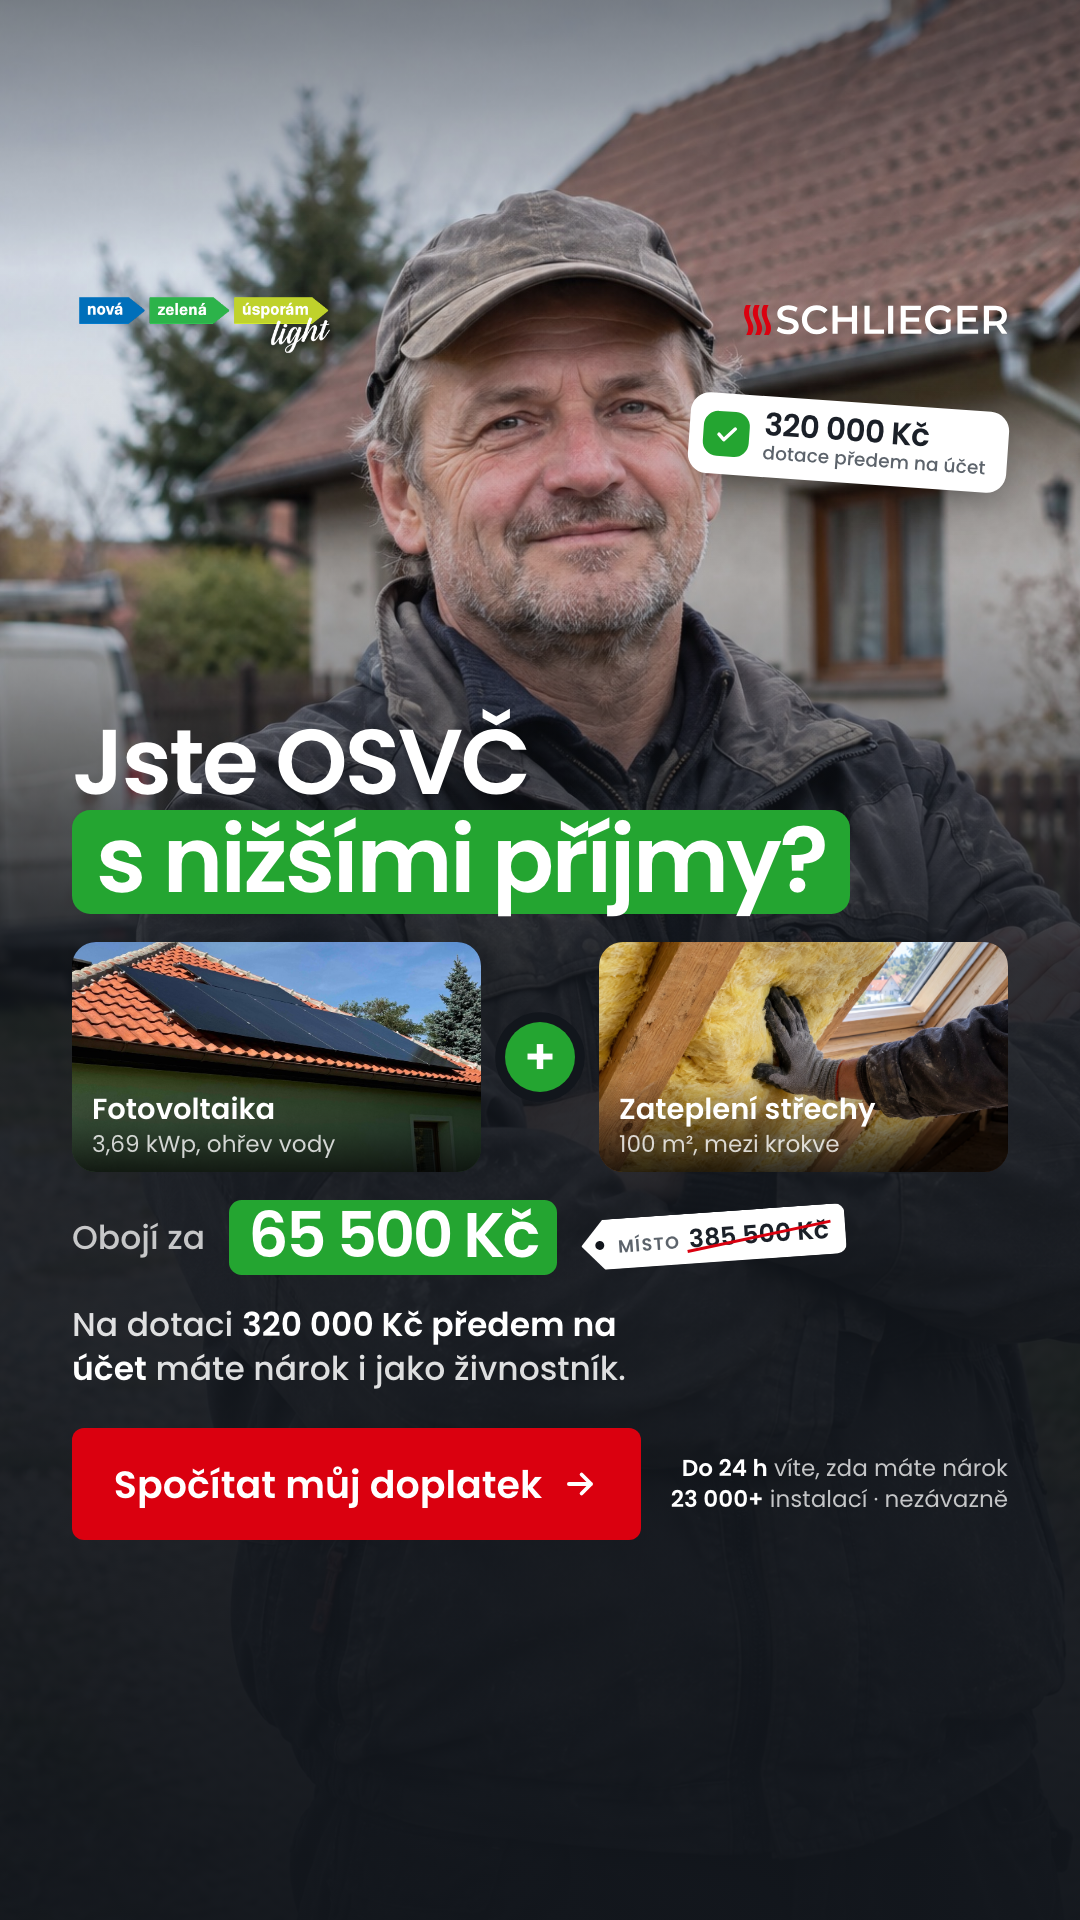
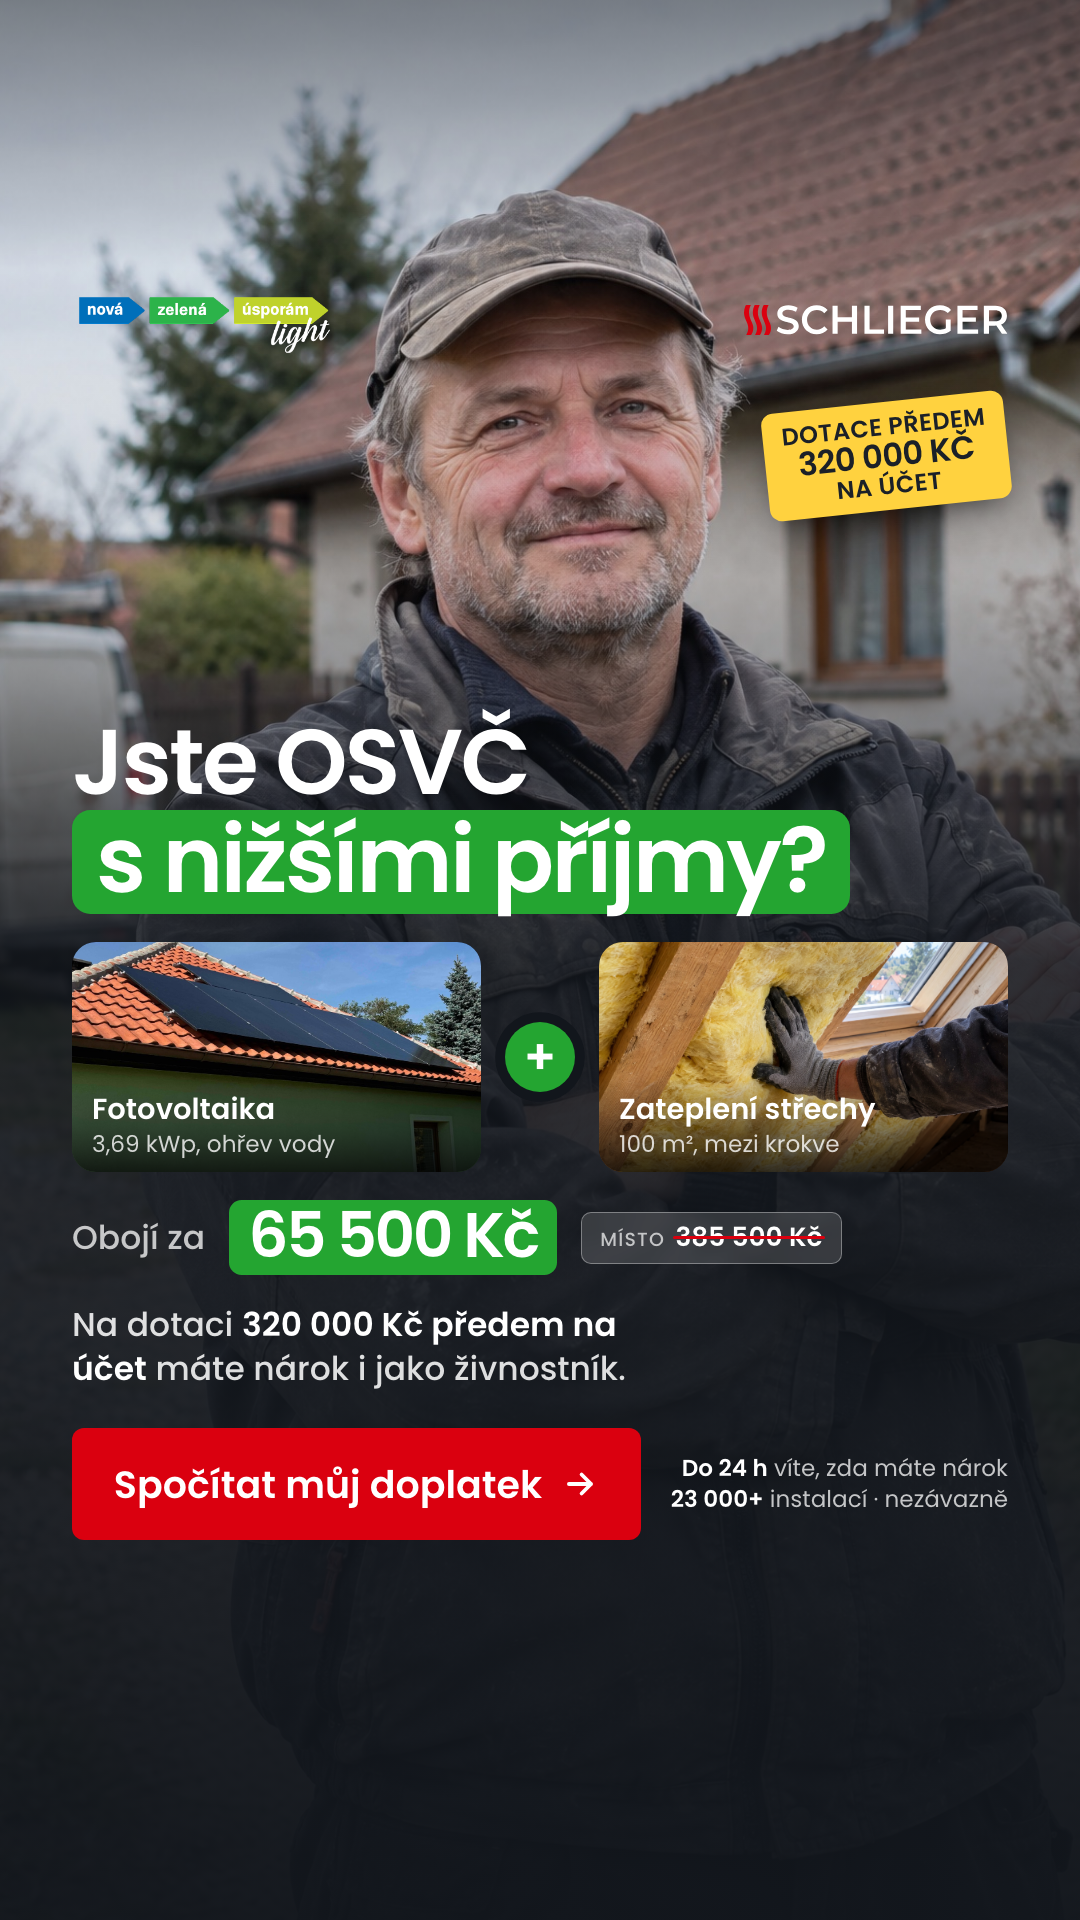
Bannery: zpět žlutá nálepka 320 000 Kč předem, přeškrtnutá cena jako čistý štítek s rovnou linkou

Changed region(s): [[0.6417, 0.1875, 0.9472, 0.2812], [0.5194, 0.625, 0.7944, 0.6875]]

diff --git a/banners/template.html b/banners/template.html
@@ -28,11 +28,10 @@ html,body{margin:0;background:#12161C;font-family:P,system-ui,sans-serif;color:#
 .price{display:flex;align-items:center;gap:var(--tg);flex-wrap:wrap}
 .price .lbl{font-size:var(--sub);color:rgba(255,255,255,.75);font-weight:500}
 .price .amt{font-size:calc(var(--hf)*1.05);font-weight:600;letter-spacing:-.04em;line-height:1;background:var(--green);padding:.06em .3em .12em;border-radius:.2em;white-space:nowrap}
-.tag{display:inline-grid;grid-template-columns:auto auto;align-items:baseline;column-gap:.35em;position:relative;background:#fff;color:var(--ink);font-size:calc(var(--hf)*.42);font-weight:600;line-height:1;padding:.5em .65em .5em 1.45em;border-radius:6px 10px 10px 6px;clip-path:polygon(.9em 0,100% 0,100% 100%,.9em 100%,0 50%);transform:rotate(-4deg);white-space:nowrap}
-.tag i{position:absolute;left:.55em;top:50%;width:.36em;height:.36em;margin-top:-.18em;border-radius:50%;background:#12161C}
-.tag u{text-decoration:none;font-size:.7em;letter-spacing:.08em;text-transform:uppercase;color:var(--ink-3)}
-.tag s{position:relative;text-decoration:none}
-.tag s::after{content:"";position:absolute;left:-2%;right:-2%;top:52%;height:.12em;background:var(--red);transform:rotate(-8deg)}
+.tag{display:inline-flex;align-items:baseline;gap:.4em;background:rgba(255,255,255,.14);border:1.5px solid rgba(255,255,255,.35);color:#fff;font-size:calc(var(--hf)*.44);font-weight:500;line-height:1;padding:.45em .7em;border-radius:10px;white-space:nowrap;backdrop-filter:blur(6px)}
+.tag u{text-decoration:none;font-size:.72em;letter-spacing:.06em;text-transform:uppercase;color:rgba(255,255,255,.7);font-weight:500}
+.tag s{position:relative;text-decoration:none;font-weight:600}
+.tag s::after{content:"";position:absolute;left:-.1em;right:-.1em;top:50%;height:.11em;margin-top:-.05em;background:var(--red);border-radius:2px}
 .sub{font-size:var(--sub);line-height:1.35;color:rgba(255,255,255,.86);font-weight:500;text-wrap:balance}
 .sub b{color:#fff;font-weight:600}
 .bot{display:flex;align-items:center;justify-content:space-between;gap:24px;margin-top:calc(var(--gap)*.3)}
@@ -40,11 +39,8 @@ html,body{margin:0;background:#12161C;font-family:P,system-ui,sans-serif;color:#
 .cta svg{width:1em;height:1em}
 .trust{font-size:calc(var(--sub)*.7);color:rgba(255,255,255,.75);text-align:right;line-height:1.35;flex:1;min-width:0}
 .trust b{color:#fff;font-weight:600}
-.stick{position:absolute;right:var(--px);top:calc(var(--pt) + var(--logo)*1.35);display:inline-flex;align-items:center;gap:calc(var(--sf)*.6);background:#fff;color:var(--ink);padding:calc(var(--sf)*.55) calc(var(--sf)*.9) calc(var(--sf)*.55) calc(var(--sf)*.6);border-radius:calc(var(--sf)*.8);transform:rotate(4deg);box-shadow:0 14px 36px -10px rgba(0,0,0,.45)}
-.stick i{flex:none;width:calc(var(--sf)*1.9);height:calc(var(--sf)*1.9);border-radius:32%;background:var(--green);display:grid;place-items:center}
-.stick i svg{width:60%;height:60%}
-.stick b{display:block;font-size:calc(var(--sf)*1.3);font-weight:600;letter-spacing:-.02em;line-height:1}
-.stick small{display:block;font-size:calc(var(--sf)*.78);font-weight:500;color:var(--ink-3);line-height:1.1;margin-top:.15em}
+.stick{position:absolute;right:var(--px);top:calc(var(--pt) + var(--logo)*1.35);background:#FFD23F;color:#1B2028;font-weight:600;font-size:var(--sf);line-height:1.05;text-align:center;padding:.5em .8em;border-radius:12px;transform:rotate(-6deg);box-shadow:0 14px 34px -12px rgba(0,0,0,.7);text-transform:uppercase;letter-spacing:.02em}
+.stick b{display:block;font-size:1.35em;letter-spacing:-.02em}
 .safe{position:absolute;left:0;right:0;background:rgba(255,0,0,.25);z-index:9;pointer-events:none}
 </style>
 <div class="b" id="b"><div class="bg"></div><div class="ov"></div><div class="top" id="top"></div><div class="in" id="in"></div></div>
@@ -67,7 +63,7 @@ const T={
 };
 const t=T[A];
 document.getElementById('top').innerHTML='<img class="nzu" src="../assets/img/nzu-light-logo-dark.png"><img class="sch" src="../assets/img/schlieger-logo-white.svg">';
-const st=document.createElement('div'); st.className='stick'; st.innerHTML='<i><svg viewBox="0 0 24 24" fill="none" stroke="#fff" stroke-width="3" stroke-linecap="round" stroke-linejoin="round"><path d="M5 12.5l4.5 4.5L19 7"/></svg></i><span><b>320 000 Kč</b><small>dotace předem na účet</small></span>'; if(tall){st.style.top='calc(var(--pt) + var(--logo)*1.6)';} b.appendChild(st);
+const st=document.createElement('div'); st.className='stick'; st.innerHTML='Dotace předem<b>320 000 Kč</b>na účet'; if(tall){st.style.top='calc(var(--pt) + var(--logo)*1.6)';} b.appendChild(st);
 document.getElementById('in').innerHTML=`
   <div class="q">${t.q}</div>
   <div class="tiles">
@@ -75,7 +71,7 @@ document.getElementById('in').innerHTML=`
     <div class="plus">+</div>
     <div class="tile"><img src="src/attic.jpg"><span>Zateplení střechy<small>100 m², mezi krokve</small></span></div>
   </div>
-  <div class="price"><span class="lbl">Obojí za</span><span class="amt">65&nbsp;500&nbsp;Kč</span><span class="tag"><i></i><u>místo</u><s>385&nbsp;500&nbsp;Kč</s></span></div>
+  <div class="price"><span class="lbl">Obojí za</span><span class="amt">65&nbsp;500&nbsp;Kč</span><span class="tag"><u>místo</u><s>385&nbsp;500&nbsp;Kč</s></span></div>
   <div class="sub">${t.sub}</div>
   <div class="bot"><span class="cta">${t.cta}${ARROW}</span><div class="trust"><b>Do 24 h</b> víte, zda máte nárok<br><b>23 000+</b> instalací · nezávazně</div></div>`;
 if (Q.get('safe') && tall){ for (const [top,h] of [[0,250],[H-340,340]]){ const d=document.createElement('div'); d.className='safe'; d.style.top=top+'px'; d.style.height=h+'px'; b.appendChild(d);} }
